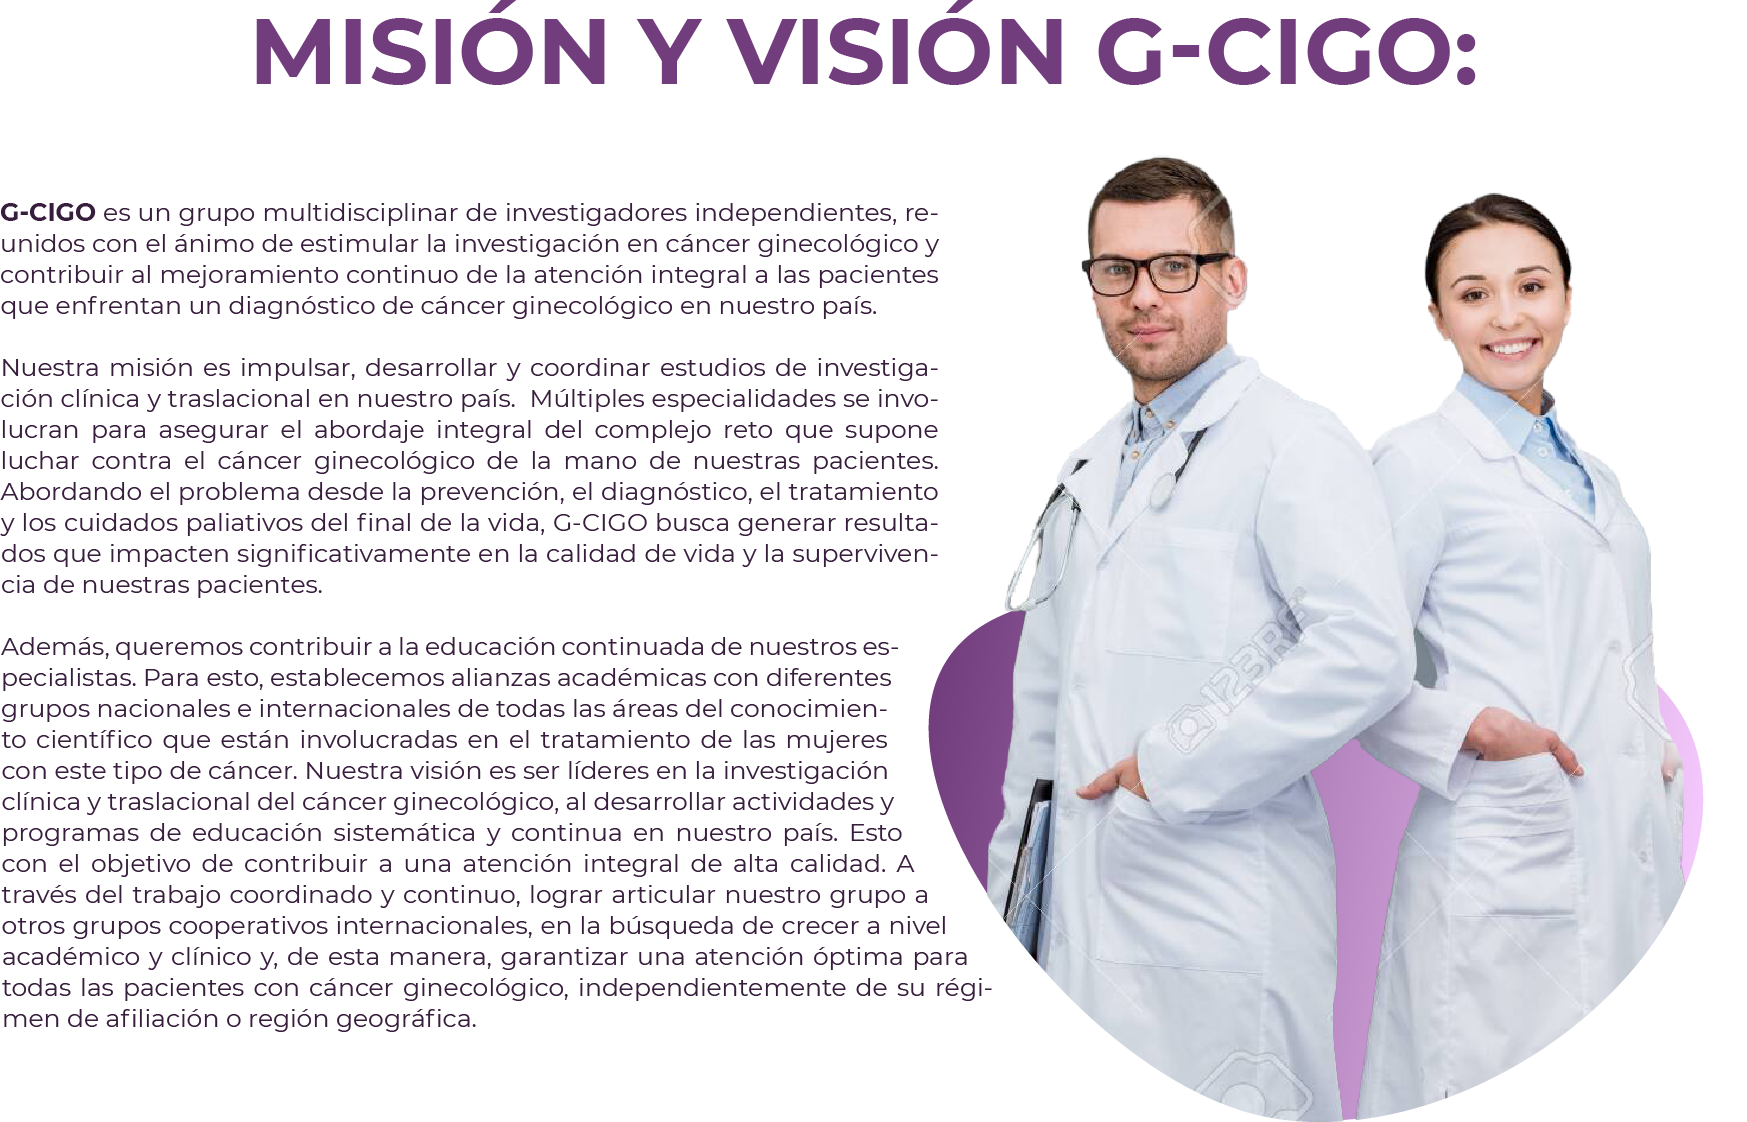
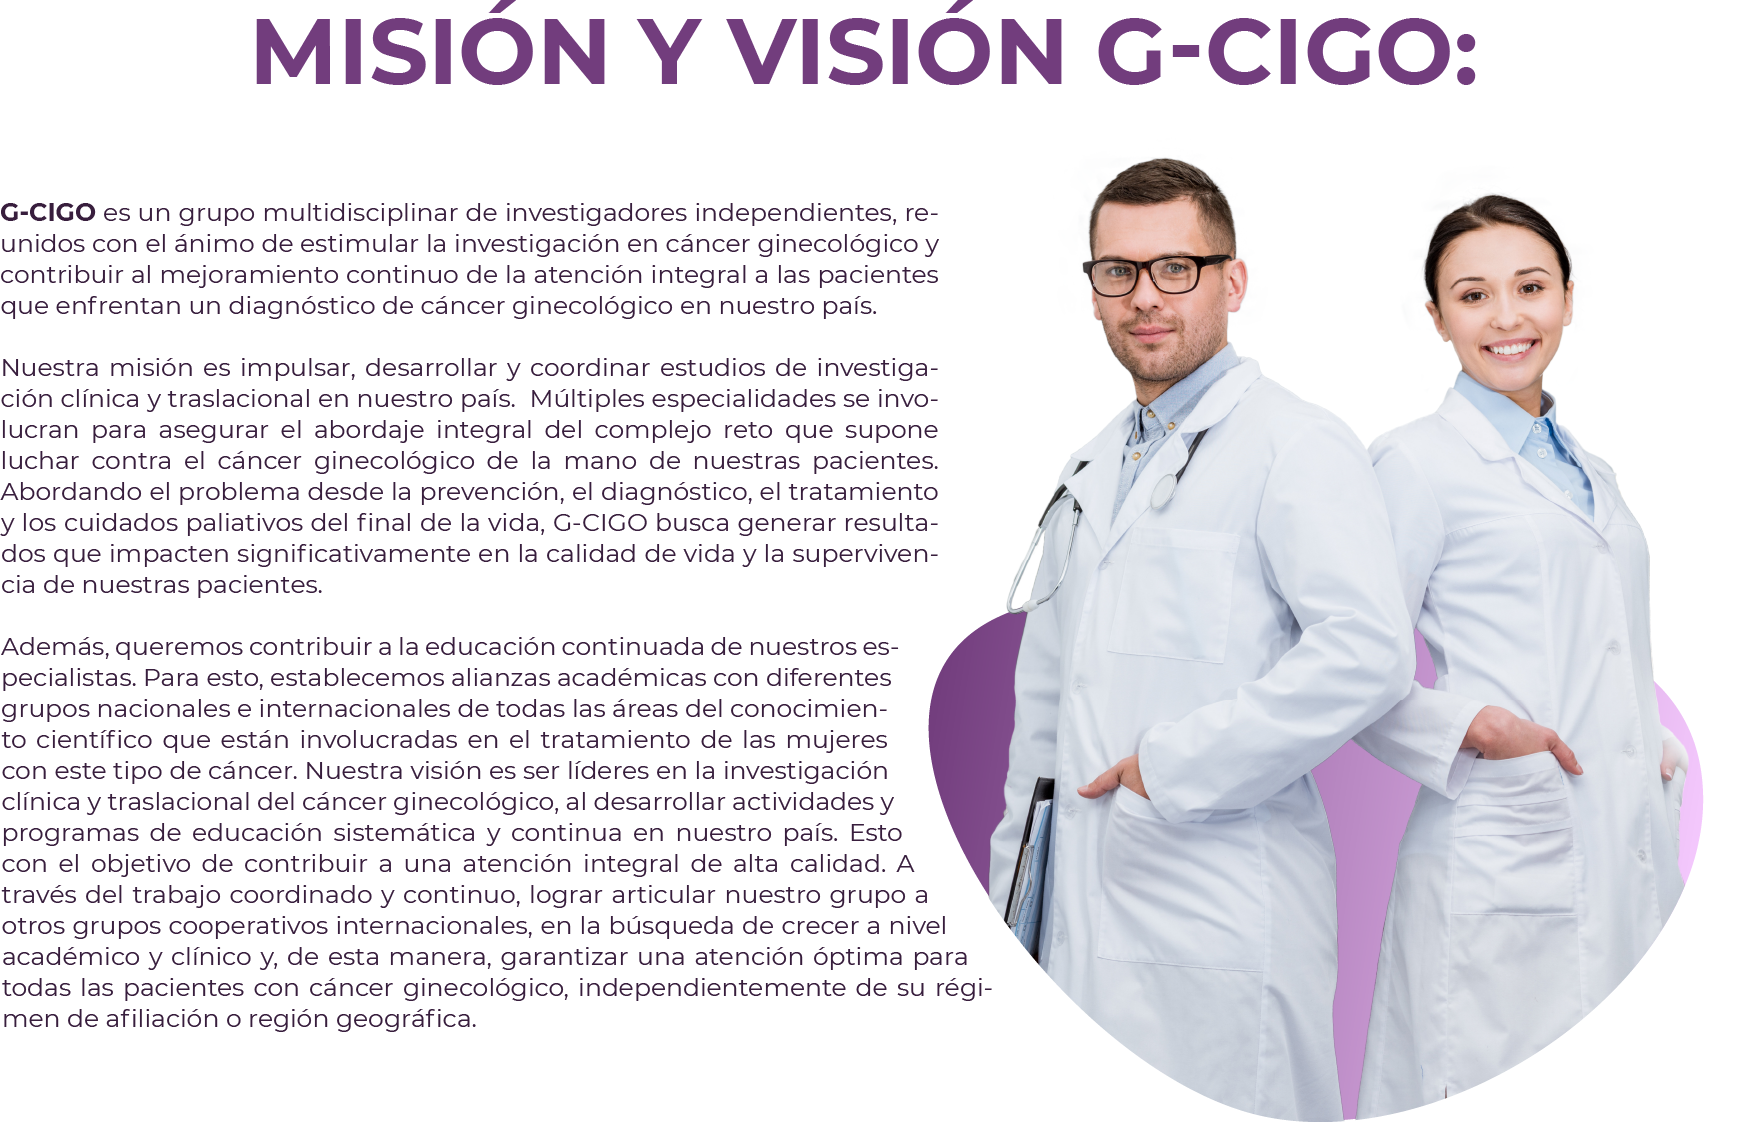
commit -refrsh

diff --git a/src/views/eventos/index.js b/src/views/eventos/index.js
@@ -7,7 +7,7 @@ import {Link, useHistory} from "react-router-dom";
 const useStyle = makeStyles({
     image3: {
         width: '100%',
-        height: '45vw',
+        height: '50vw',
         '@media (max-width: 1024px)': {
             height: 'auto'
         }

diff --git a/src/views/noticias/index.js b/src/views/noticias/index.js
@@ -7,7 +7,7 @@ import { useHistory } from 'react-router';
 const useStyle = makeStyles({
     image2: {
         width: '100%',
-        height: '42vw',
+        height: '50vw',
         '@media (max-width: 1024px)': {
             height: 'auto'
         }

diff --git a/src/views/home/index.js b/src/views/home/index.js
@@ -8,7 +8,7 @@ import { useHistory } from "react-router";
 const useStyle = makeStyles({
     image: {
         width: '100%',
-        height: '42vw',
+        height: '50vw',
         '@media (max-width: 1024px)': {
             height: 'auto'
         }

diff --git a/src/views/videos/index.js b/src/views/videos/index.js
@@ -12,7 +12,7 @@ import "../../styles/svg.scss";
 const useStyle = makeStyles({
     image1: {
         width: '100%',
-        height: '42vw',
+        height: '50vw',
         '@media (max-width: 1024px)': {
             height: 'auto'
         }
